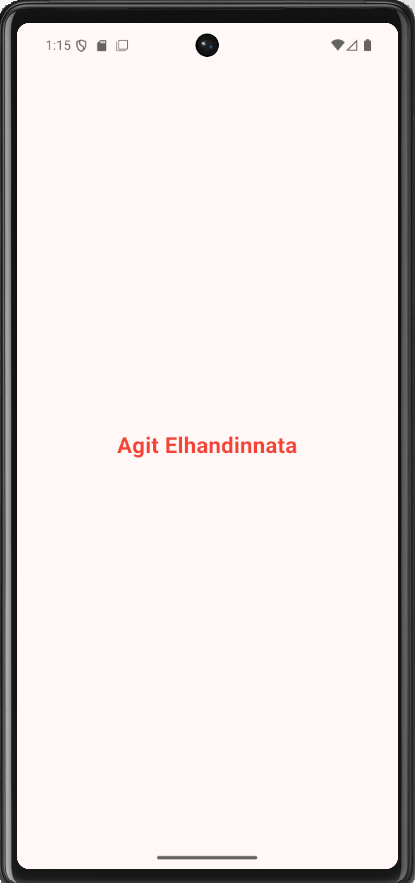
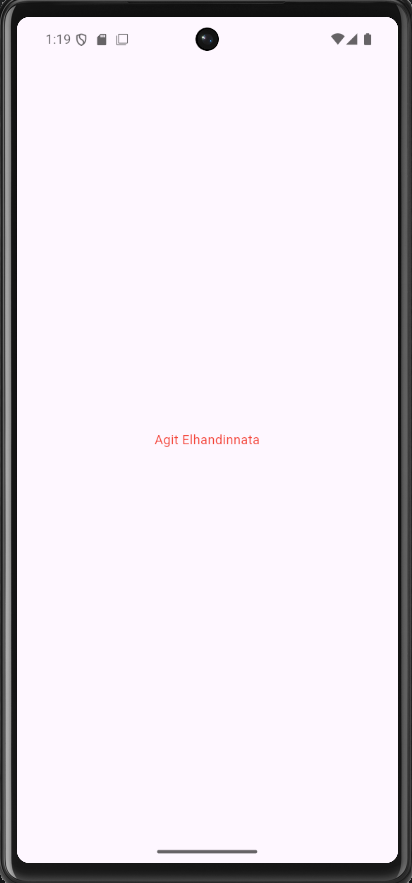
latihan 2 - tema warna-update

Changed region(s): [[0.0, 0.0, 1.0, 1.0], [0.2913, 0.4892, 0.7282, 0.5198]]

diff --git a/lib/main.dart b/lib/main.dart
@@ -14,13 +14,6 @@ class MyApp extends StatelessWidget {
       title: 'Aplikasi Mahasiswa',
       debugShowCheckedModeBanner: false,
 
-      theme: ThemeData(
-        colorScheme: ColorScheme.fromSeed(
-          seedColor: Colors.red,
-        ),
-        useMaterial3: true,
-      ),
-
       home: Scaffold(
         body: const Center(
           child: Column(
@@ -29,8 +22,6 @@ class MyApp extends StatelessWidget {
               Text(
                 'Agit Elhandinnata',
                 style: TextStyle(
-                  fontSize: 24,
-                  fontWeight: FontWeight.bold,
                   color: Colors.red,
                 ),
               ),
